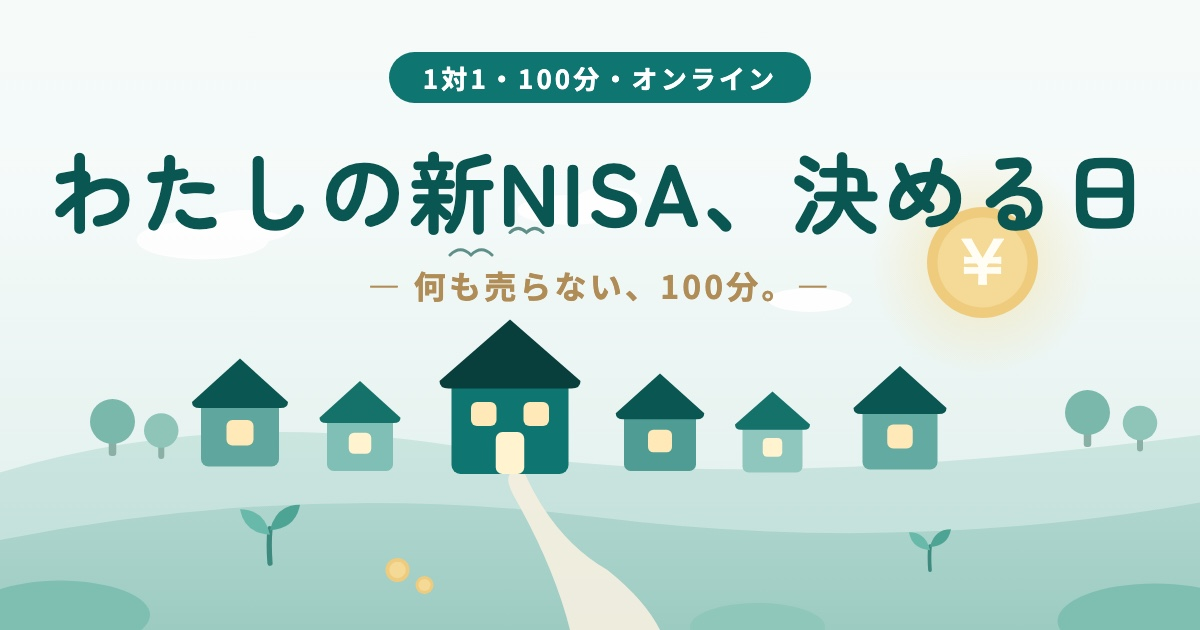
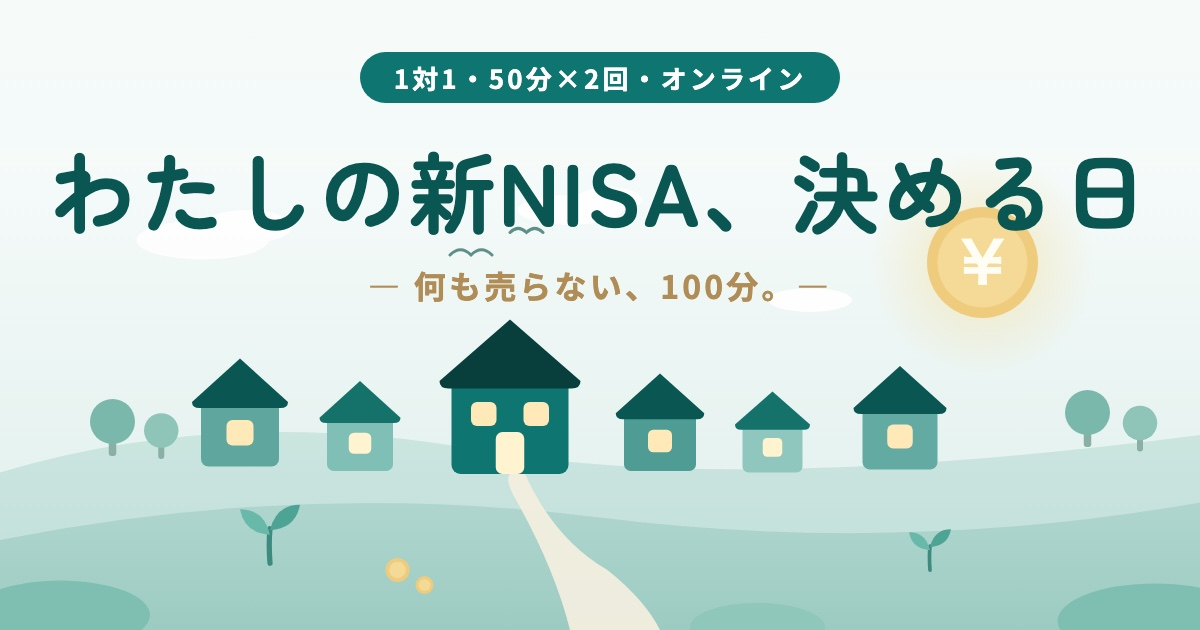
50分×2回構成に変更・4つの宿題を組み込み・OGP更新

Changed region(s): [[0.2775, 0.0603, 0.7092, 0.181]]

diff --git a/index.html b/index.html
@@ -3,11 +3,11 @@
 <head>
 <meta charset="UTF-8">
 <meta name="viewport" content="width=device-width, initial-scale=1.0">
-<title>わたしの新NISA、決める日｜1対1・100分</title>
-<meta name="description" content="迷い続けた新NISAを、100分で「決める」ところまで。口座・毎月の金額・商品タイプが、その日のうちに決まる1対1のオンライン個別サポートです。">
+<title>わたしの新NISA、決める日｜1対1・50分×2回</title>
+<meta name="description" content="迷い続けた新NISAを、2回の対話で「決める」ところまで。口座・毎月の金額・商品タイプが決まる、1対1のオンライン個別サポートです。">
 <meta property="og:type" content="website">
-<meta property="og:title" content="わたしの新NISA、決める日｜1対1・100分">
-<meta property="og:description" content="迷い続けた新NISAを、100分で「決める」ところまで。1対1のオンライン個別サポートです。">
+<meta property="og:title" content="わたしの新NISA、決める日｜1対1・50分×2回">
+<meta property="og:description" content="迷い続けた新NISAを、2回の対話で「決める」ところまで。1対1のオンライン個別サポートです。">
 <meta property="og:url" content="https://mm738966m-boop.github.io/nisa-kimeruhi/">
 <meta property="og:image" content="https://mm738966m-boop.github.io/nisa-kimeruhi/ogp.jpg">
 <meta property="og:image:width" content="1200">
@@ -77,10 +77,10 @@ footer{border-top:1px solid var(--line);color:var(--muted);font-size:.8rem;text-
 
 <div class="hero">
   <div class="hero-inner">
-    <span class="badge">1対1・100分・オンライン</span>
+    <span class="badge">1対1・50分×2回・オンライン</span>
     <h1>わたしの新NISA、決める日</h1>
     <p class="lede">迷い続けた新NISAを、
-100分で「決める」ところまで。</p>
+2回の対話で「決める」ところまで。</p>
     <p class="lede2">決めるのはあなた。
 私は、決めるための道具と順番をそろえます。</p>
     <a class="cta" href="https://lin.ee/oSx7uicx">LINEで「決める日」と送って申し込む<small>日程とご案内を個別にお返事します</small></a>
@@ -113,13 +113,34 @@ footer{border-top:1px solid var(--line);color:var(--muted);font-size:.8rem;text-
 </section>
 
 <section>
-  <h2><span class="en">100 MINUTES</span>当日の進め方</h2>
+  <h2><span class="en">HOW IT WORKS</span>進め方（50分×2回）</h2>
   <ol class="steps">
-    <li><b>現在地の整理（20分）</b>いまの家計と、気になっていることをそのまま話してください。</li>
-    <li><b>ゴールから逆算（30分）</b>何のためのお金かを先に決めます。金額はそのあとです。</li>
-    <li><b>3つを決める（40分）</b>口座・金額・商品タイプ。迷ったら一緒に基準に戻ります。</li>
-    <li><b>今日からの手順（10分）</b>帰ってからやることを、紙1枚にまとめてお渡しします。</li>
+    <li><b>お申し込み後</b>「4つの宿題」が届きます。
+どれも5〜10分でできる、ざっくりメモで大丈夫です。</li>
+    <li><b>1日目（50分）</b>宿題をもとに現在地を整理して、
+何のためのお金かをゴールから逆算します。</li>
+    <li><b>2日目（50分）</b>口座・金額・商品タイプの3つを決めて、
+今日からの手順を紙1枚にまとめてお渡しします。</li>
   </ol>
+  <p class="note">1日目と2日目のあいだは、数日〜1週間ほどあけます。
+一晩置いて考える時間も、決めるための大事な材料です。</p>
+</section>
+
+<section>
+  <h2><span class="en">HOMEWORK</span>「4つの宿題」はこんな内容です</h2>
+  <div class="cards">
+    <div class="card"><h3>① 収支のざっくり整理</h3>
+    <p>毎月「入ってくるお金」と「出ていくお金」を簡単にメモ。</p></div>
+    <div class="card"><h3>② いまの貯金額の把握</h3>
+    <p>使っている口座の残高を、ざっくり合計するだけでOK。</p></div>
+    <div class="card"><h3>③ すでにやっている積立のメモ</h3>
+    <p>iDeCo・企業型DC・つみたてなど。「なし」でも大丈夫です。</p></div>
+    <div class="card"><h3>④ 老後のざっくり試算</h3>
+    <p>例）月25万円 × 12ヶ月 × 30年 ＝ 9,000万円くらい。
+電卓で1回たたいてみるだけで見え方が変わります。</p></div>
+  </div>
+  <p class="note">ぜんぶ、ざっくりで大丈夫です。
+きれいに作り込む必要はありません。</p>
 </section>
 
 <section>
@@ -172,8 +193,9 @@ Voicy「ふるふるラジオ」で毎日配信中。
     <p class="a">大丈夫です。
 むしろ「調べる前」のほうが、まっすぐ決められることが多いです。</p></div>
     <div class="qa"><p class="q">準備するものはありますか？</p>
-    <p class="a">毎月の収支がざっくり分かるものがあれば十分です。
-なくても当日一緒に整理できます。</p></div>
+    <p class="a">お申し込み後に「4つの宿題」をお送りします。
+どれも5〜10分でできる、ざっくりメモで大丈夫です。
+間に合わなくても、1日目に一緒に整理できます。</p></div>
     <div class="qa"><p class="q">支払い方法は？</p>
     <p class="a">お申し込み後のご案内でお伝えします。
 該当価格の確認が先なので、先にお支払いいただくことはありません。</p></div>

diff --git a/tokusho.html b/tokusho.html
@@ -26,7 +26,7 @@ a{color:#0E7570;}
 <tr><th>所在地</th><td>〒225-0023　神奈川県横浜市青葉区大場町174-121</td></tr>
 <tr><th>電話番号</th><td>045-482-3238（受付時間 10:00〜18:00）</td></tr>
 <tr><th>メールアドレス</th><td>fulfull0605@gmail.com</td></tr>
-<tr><th>サービス名</th><td>新NISA個別サポート「わたしの新NISA、決める日」（1対1・100分・オンライン）</td></tr>
+<tr><th>サービス名</th><td>新NISA個別サポート「わたしの新NISA、決める日」（1対1・50分×2回・オンライン）</td></tr>
 <tr><th>販売価格</th><td>19,800円（税込）<br>ユメカネサロン ベーシック会員・fulfullでご契約のある方：9,800円（税込）<br>プラチナ会員・ふるふるスクール生：無料（特典に含まれます）</td></tr>
 <tr><th>商品代金以外の必要料金</th><td>インターネット接続料金・通信料金はお客様のご負担となります。</td></tr>
 <tr><th>支払方法・支払時期</th><td>お申し込み後、LINEにてご案内します。お支払いはサービス提供前にお願いしています。</td></tr>
